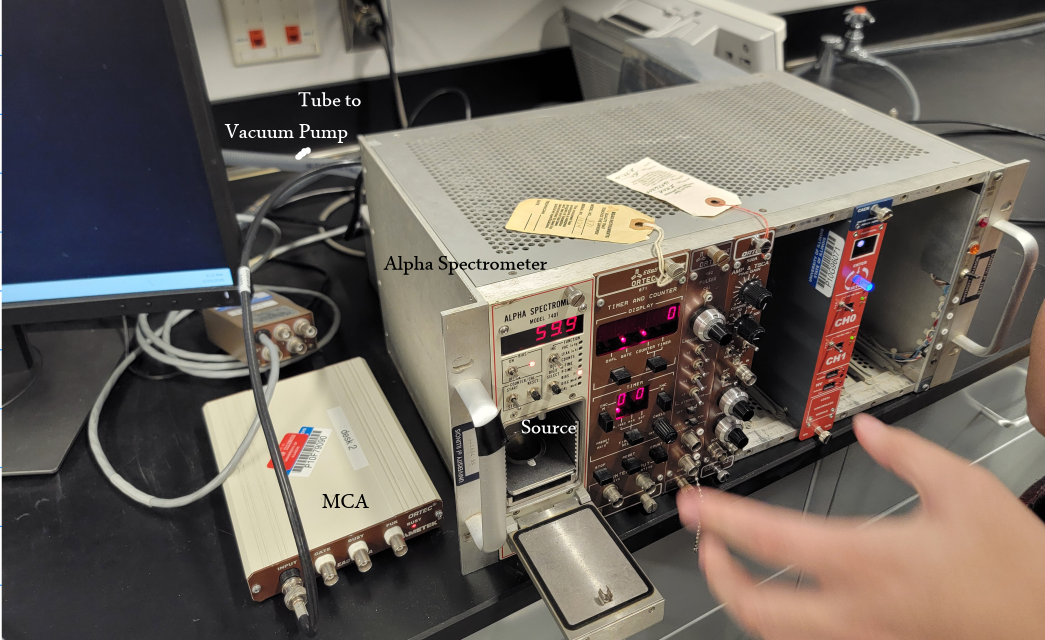
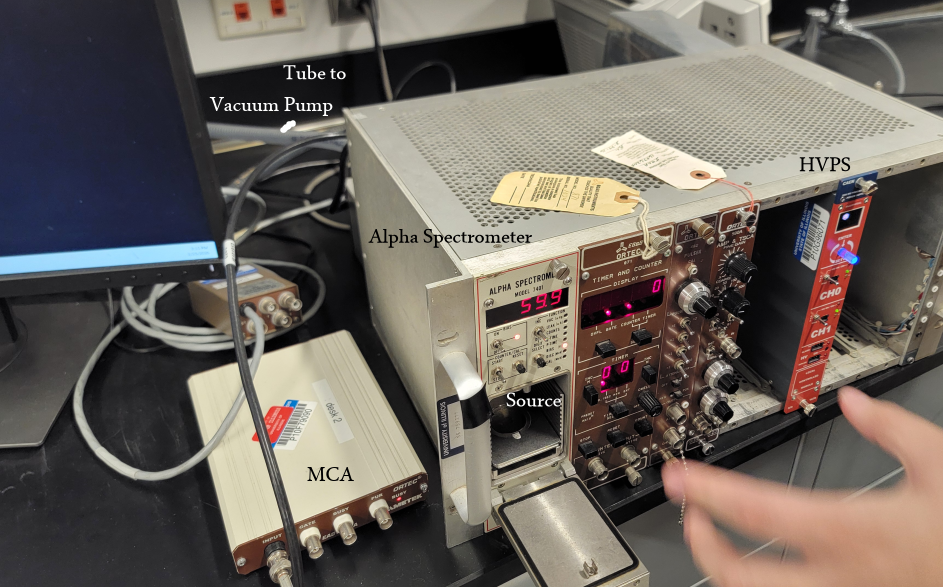
Methods

diff --git a/main.tex b/main.tex
@@ -18,18 +18,30 @@
 \usepackage[letterpaper, margin=1in]{geometry}
 \usepackage{xspace}
 \newcommand{\figwidth}{0.75\linewidth}
+\newcommand{\halflw}{0.5\linewidth}
 
 % Common Macros
 \newcommand{\figref}[1]{Fig.~\ref{#1}}
-\newcommand{\defplot}[2]{
+\newcommand{\defplotW}[3]{
     \begin{figure}
         \centering
-        \includegraphics[width=\figwidth]{fig/#1.png}
+        \includegraphics[width=#3\linewidth]{fig/#1.png}
         \caption{#2}
         \newcommand{\tmplabel}{fig:#1}
         \label{\tmplabel}
     \end{figure}
 }
+\newcommand{\defplotJPG}[2]{\defplotW{#1}{#2}{0.75}}
+\newcommand{\defplotJPGW}[3]{
+    \begin{figure}
+        \centering
+        \includegraphics[width=#3\linewidth]{fig/#1.jpg}
+        \caption{#2}
+        \newcommand{\tmplabel}{fig:#1}
+        \label{\tmplabel}
+    \end{figure}
+}
+\newcommand{\defplot}[2]{\defplotW{#1}{#2}{0.75}}
 
 % Specific lab to lab
 \newcommand{\micCi}{\xspace$\mathrm{\mu Ci}$\xspace}
@@ -65,20 +77,94 @@ More broadly, the energy loss phenomena of alpha particles through different mat
 \section{Experimental Procedure}\label{sec:methods}
 In this section, we detail the equipment used and experiments performed in this laboratory. 
 \subsection{Equipment}
-In this laboratory, we employed an alpha spectrometer attached to a vacuum pump, a multichannel analyzer (MCA), a 0.1, and a computer with the software Maestro installed.
+In this laboratory, we employed an alpha spectrometer attached to a vacuum pump, with a silicon surface barrier detector biased by a high voltage power supply (HVPS), a multichannel analyzer (MCA), a 0.1 \micCi alpha particle source, five 18 micron thick sheets of aluminum, five 3.6 micron thick sheets of Mylar, and a computer with the softwares Maestro and SRIM/TRIM installed.
 Further equipment details, where applicable, may be found in Appendix~\ref{app:equip}
 
 \subsection{Setup}
 \FloatBarrier
-A system according to \figref{fig:Lab4_diag} was set up to observe alpha particle energy spectra from a given 
+We constructed a system according to \figref{fig:Lab4_diag} to observe alpha particle energy spectra from a source in a controlled environment, which can be seen in \figref{fig:Lab4_setup}.
 
 \defplot{Lab4_setup}{The experimental setup used during the laboratory.}
 \defplot{Lab4_diag}{A system diagram of the laboratory setup.}
 
 \FloatBarrier
-\subsection{Range Estimation}
-Since particles may not stop at exactly the same distance, to practically estimate the range of the particle and energy, we estimate the range of a particle as the distance where only half the particles are transmitted, as seen in \figref{fig:}
+\subsection{Experiments 1 and 2: Measuring Alpha Particle Range and Stopping Power in Vacuum and Air}
+\FloatBarrier
+We first biased the detector to $+60$~V.
+As the detector is a silicon surface barrier detector, we took care to apply the bias slowly and in small steps, to avoid potential plasma ionization which would damage the detector.\\
+
+% \defplotJPGW{Lab4_chamber}{The chamber of the alpha spectrometer module, with the source mounted on a plate in one of several available vertical slots, and the cylindrical detector overhead.}{0.4}
+\begin{figure}
+    \centering\includegraphics[width=0.4\linewidth,angle=-90]{fig/Lab4_chamber.jpg}
+    \caption{The chamber of the alpha spectrometer module, with the source mounted on a plate in one of several available vertical slots, and the cylindrical detector overhead.}
+    \label{fig:Lab4_chamber}
+\end{figure}
+
+Mounting the source in the lowest possible slot in the chamber, as seen in \figref{fig:Lab4_chamber}, we closed the chamber door and evacuated the chamber using the attached vacuum pump.
+We then, using Maestro on the computer, started recording the energy spectrum observed by the detector, and recorded for a period of 3 minutes.
+Then, releasing the vacuum in the chamber, we analogously recorded the spectrum over 3 minutes in air.
+We additionally recorded the distance of the source from the detector, using the known locations of the 12 vertical slots in the chamber relative to the location of the detector.\\
+
+We repeated this spectrum measurement in vacuum and in air four more times at different slots, conducting a total of ten spectrum measurements at distances of 49, 33, 25, 17, and 1 mm from the detector.\\
+\FloatBarrier
+\subsection{Experiments 3 and 4: Measuring Alpha Particle Range and Stopping Power in Mylar and Aluminum}
+\FloatBarrier
+We selected a slot location corresponding to a distance approximately 4 cm from the detector, and placed the source plate in this slot.
+We covered the source with a single 3.6 micron thick sheet of Mylar, using a washer to hold it steady over the source as shown in \figref{fig:Lab4_mylar}.\\
+
+With the source under Mylar in the chamber, we evacuated the chamber and performed a 3-minute spectrum measurement for the single Mylar sheet, and then repeated this process with two, three, four, and five sheets of Mylar, ensuring the source remained at a constant distance from the detector through the series of spectrum measurements, to build a series of spectra with attenuation through five distances in Mylar.\\
+
+We then repeated this process for up to five sheets of aluminum foil.
+A setup with aluminum foil over the source with a washer to hold steady may be seen in \figref{fig:Lab4_al}.\\
+
+\begin{figure}
+    \centering\includegraphics[width=0.4\linewidth,angle=-90]{fig/Lab4_mylar.jpg}
+    \caption{The alpha source covered by one sheet of 3.6 micron thick Mylar, with a washer to hold it in place.}
+    \label{fig:Lab4_mylar}
+\end{figure}
+
+% \defplotJPGW{Lab4_al}{The alpha source covered by one sheet of 18 micron thick aluminum foil, with a washer to hold it in place.}{0.4}
+\begin{figure}
+    \centering\includegraphics[width=0.4\linewidth,angle=-90]{fig/Lab4_al.jpg}
+    \caption{The alpha source covered by one sheet of 18 micron thick aluminum foil, with a washer to hold it in place.}
+    \label{fig:Lab4_al}
+\end{figure}
+
+After conducting all measurements, we released the vacuum in the chamber, removed the source, and slowly unbiased the detector.
+
+\FloatBarrier
+\subsection{Estimating Ranges with SRIM}
+We then used the software SRIM to calculate tables of stopping power and range for different energies of alpha particles in air, Mylar, and aluminum.\\
+
+To calculate stopping power and range for a material, we opened SRIM and selected Stopping/Range Tables.
+We selected helium ions (i.e., alpha particles) with energy ranging from 10~keV to 10~MeV (encompassing the \AmSrc particle energy of 5.486~MeV), and selected the material, either as an element (for aluminum), or using the compound dictionary (for Mylar and for air).\\
+
+Selecting units of stopping power in eV per Angstrom (lower left box), we then clicked the Calculate Table button and saved the output, containing stopping powers and ranges for different energies in each material.
+
+\subsection{Calculating Energy Distribution of Transmitted Ions through Materials in TRIM}
+
+We then used the software TRIM to calculate the energy distribution of ions transmitted through different thicknesses of each material.\\
+
+Opening the main SRIM menu, we selected TRIM calculation.
+
+We specfified an ion type of He for alpha particles, an energy of 5.486~Mev corresponding to the \AmSrc source, and entered the specific material's composition as with the SRIM calculations above.\\
+
+In the output disk files box near the bottom middle of the menu, we selected the ``Transmitted ion'' option to write a table of all transmitted ions to a file, and we specified to write into a new TRANSMIT file.\\
+
+We then specified the target width to the desired thickness of the material to simulate, specified for TRIM to simulate 1000 ions in the lower left portion of the window, and started the TRIM run by pressing Save Input and Run TRIM.\\
+
+We then named and copied the TRANSMIT file produced to a different location, before repeating for the next combination of material and thickness.
+In this way, we used TRIM to simulate alpha particle transmission through each of the experimentally tested thicknesses of air, aluminum, and Mylar.
+\subsection{Range Estimation from Transmission Data}
+
+
+\FloatBarrier
+Since particles may not stop at exactly the same distance, to practically estimate the range of the particle and energy, we estimate the range of a particle as the distance where only half the particles are transmitted, as seen in \figref{fig:mat0-range}.\\
+
+\defplotW{mat0-range}{An estimate of range as the distance where $N/2$ of the original $N$ particles have been attenuated by the medium. Figure sourced from \emph{Measurement and Detection of Radiation}.\cite{tsoulfanidis_measurement_2015}}{0.5}
+
 In lieu of exact particle transmission rates, we then estimate this by the distance where peak intensity drops to half that of that measured for the lowest distance.
+\FloatBarrier
 \section{Experimental Results}\label{sec:results}\FloatBarrier
 
 In \figref{fig:vac_dist_v_I}, the integrated count rate for the alpha source is shown after attenuation through different distances in vacuum. 
